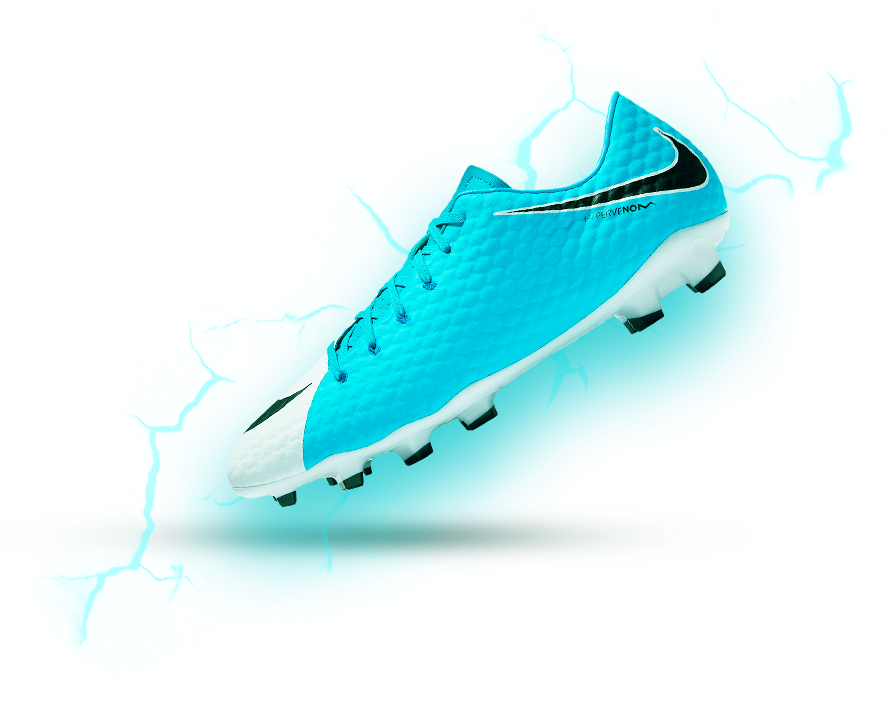
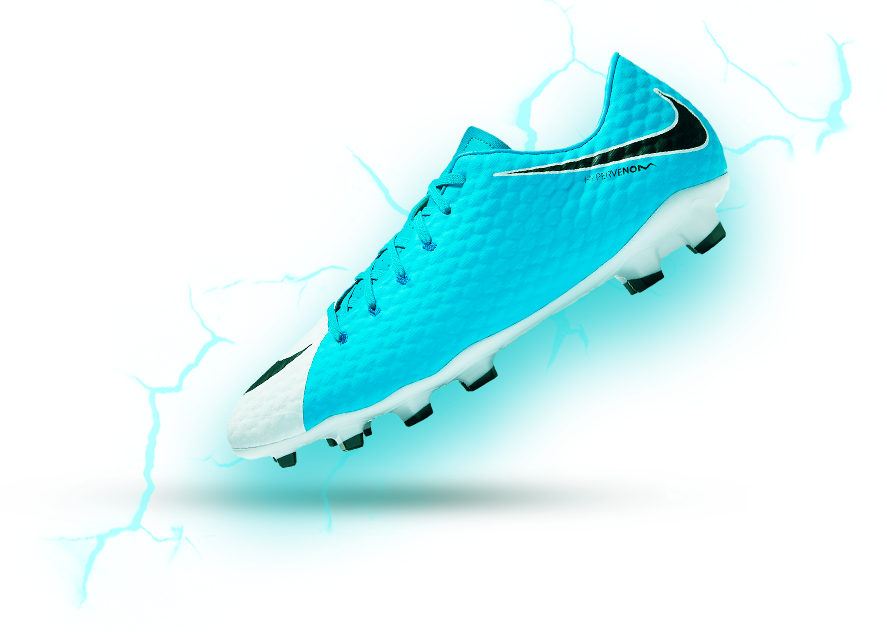
Сверстан блок description, без адаптива

diff --git a/css/style.css b/css/style.css
@@ -55,9 +55,9 @@ body {
     margin: 0 auto;
     display: flex;
     justify-content: space-between;
-    align-items: center; }
+    align-items: flex-start; }
   .hero__textplace {
-    margin: 0 auto;
+    margin: 50px auto;
     color: #00FFFC;
     font-size: 1.3em; }
     .hero__textplace--text {
@@ -155,16 +155,59 @@ body {
     width: 100%;
     max-width: 1600px;
     min-height: 400px;
-    background: #cdcdcd url("../img/back/cloud-down2.png") no-repeat bottom center;
+    background: url("../img/back/cloud-down2.png") no-repeat bottom center;
     background-size: cover;
     position: absolute;
-    bottom: -65%;
-    z-index: 999;
-    outline: 1px solid green; }
+    bottom: 0;
+    transform: translateY(100%);
+    z-index: 999; }
   .features__shoe {
     width: 50%;
     min-width: 500px;
     height: 50%;
     min-height: 500px;
     background: transparent url("../img/nike2.png") no-repeat center;
+    background-size: contain;
+    outline: 1px solid red;
+    position: absolute;
+    top: 60%;
+    left: 47%;
+    transform: translate(-40%, -53%); }
+  .features__button {
+    position: absolute;
+    bottom: 0;
+    left: 15%;
+    transform: translateY(-85%); }
+
+.description {
+  width: 100%;
+  height: 150vh;
+  background: url("../img/back/back3.png") no-repeat center;
+  background-size: cover;
+  display: flex;
+  align-items: center; }
+  .description__wrap {
+    width: 100%;
+    height: auto;
+    display: flex;
+    justify-content: center;
+    align-items: center; }
+  .description__shoe {
+    flex-basis: 50%;
+    min-width: 500px;
+    height: 700px;
+    min-height: 500px;
+    margin-top: 10%;
+    background: transparent url("../img/nike3.png") no-repeat center;
     background-size: contain; }
+  .description__textplace {
+    flex-basis: 40%;
+    text-align: center; }
+    .description__textplace--title {
+      font-size: 3.5em;
+      margin-bottom: 40px;
+      color: #263238; }
+    .description__textplace--text {
+      font-size: 1em;
+      color: #263238;
+      margin-bottom: 70px; }

diff --git a/index.html b/index.html
@@ -11,7 +11,7 @@
 </head>
 <body>
   <div class="wrap">
-    <div class="hero">
+    <section class="hero">
       <header class="hero__header">
         <a href="#"><svg class="hero__header--logo" version="1.1" xmlns:svg="http://www.w3.org/2000/svg" xmlns="&ns_svg;" xmlns:xlink="&ns_xlink;" width="200" height="72" fill="#fff"
         	 viewBox="135.5 361.375 200 72" overflow="visible" enable-background="new 135.5 361.375 200 72" xml:space="preserve">
@@ -38,16 +38,30 @@
       <!-- /.hero__main-wrap -->
       <div class="hero__cloud-down"></div>
       <!-- /.hero__cloud-up -->
-    </div>
+    </section>
     <!-- /.hero -->
-    <div class="features">
+    <section class="features">
       <button class="button features__button">Buy now</button>
       <div class="features__shoe"></div>
       <!-- /.features__shoe -->
       <div class="features__cloud-down"></div>
       <!-- /.features__cloud-down -->
-    </div>
+    </section>
     <!-- /.features -->
+    <section class="description">
+      <div class="description__wrap">
+        <div class="description__shoe"></div>
+        <!-- /.description__shoe -->
+        <div class="description__textplace">
+          <h2 class="description__textplace--title">The Way You Like It</h2>
+          <p class="description__textplace--text">Lorem ipsum dolor sit amet, consectetur adipisicing elit, sed do eiusmod tempor incididunt ut labore et dolore magna aliqua. Ut enim ad minim veniam, quis nostrud exercitation</p>
+          <button class="button description__textplace--button">Buy now</button>
+        </div>
+        <!-- /.description__textplace -->
+      </div>
+      <!-- /.description__wpar -->
+    </section>
+    <!-- /.description -->
   </div>
   <!-- /.wrap -->
 </body>

diff --git a/sass/_features.sass b/sass/_features.sass
@@ -10,12 +10,12 @@
     width: 100%
     max-width: 1600px
     min-height: 400px
-    background: #cdcdcd url("../img/back/cloud-down2.png") no-repeat bottom center
+    background: url("../img/back/cloud-down2.png") no-repeat bottom center
     background-size: cover
     position: absolute
-    bottom: -65%
+    bottom: 0
+    transform: translateY(100%)
     z-index: 999
-    outline: 1px solid green
   &__shoe
     width: 50%
     min-width: 500px
@@ -23,3 +23,13 @@
     min-height: 500px
     background: transparent url("../img/nike2.png") no-repeat center
     background-size: contain
+    outline: 1px solid red
+    position: absolute
+    top: 60%
+    left: 47%
+    transform: translate(-40%, -53%)
+  &__button
+    position: absolute
+    bottom: 0
+    left: 15%
+    transform: translateY(-85%)

diff --git a/sass/_description.sass b/sass/_description.sass
@@ -1,0 +1,33 @@
+.description
+  width: 100%
+  height: 150vh
+  background: url("../img/back/back3.png") no-repeat center
+  background-size: cover
+  display: flex
+  align-items: center
+  &__wrap
+    width: 100%
+    height: auto
+    display: flex
+    justify-content: center
+    align-items: center
+  &__shoe
+    flex-basis: 50%
+    min-width: 500px
+    height: 700px
+    min-height: 500px
+    margin-top: 10%
+    background: transparent url("../img/nike3.png") no-repeat center
+    background-size: contain
+  &__textplace
+    flex-basis: 40%
+    text-align: center
+    &--title
+      font-size: 3.5em
+      margin-bottom: 40px
+      color: $text-two
+    &--text
+      font-size: 1em
+      color: $text-two
+      margin-bottom: 70px
+    &--button

diff --git a/sass/_hero.sass b/sass/_hero.sass
@@ -32,9 +32,9 @@
     margin: 0 auto
     display: flex
     justify-content: space-between
-    align-items: center
+    align-items: flex-start
   &__textplace
-    margin: 0 auto
+    margin: 50px auto
     color: #00FFFC
     font-size: 1.3em
     &--text

diff --git a/sass/style.sass b/sass/style.sass
@@ -11,3 +11,5 @@
 @import 'button'
 
 @import 'features'
+
+@import 'description'

diff --git a/sass/_color.sass b/sass/_color.sass
@@ -1,1 +1,2 @@
 $white: #fff
+$text-two: #263238
